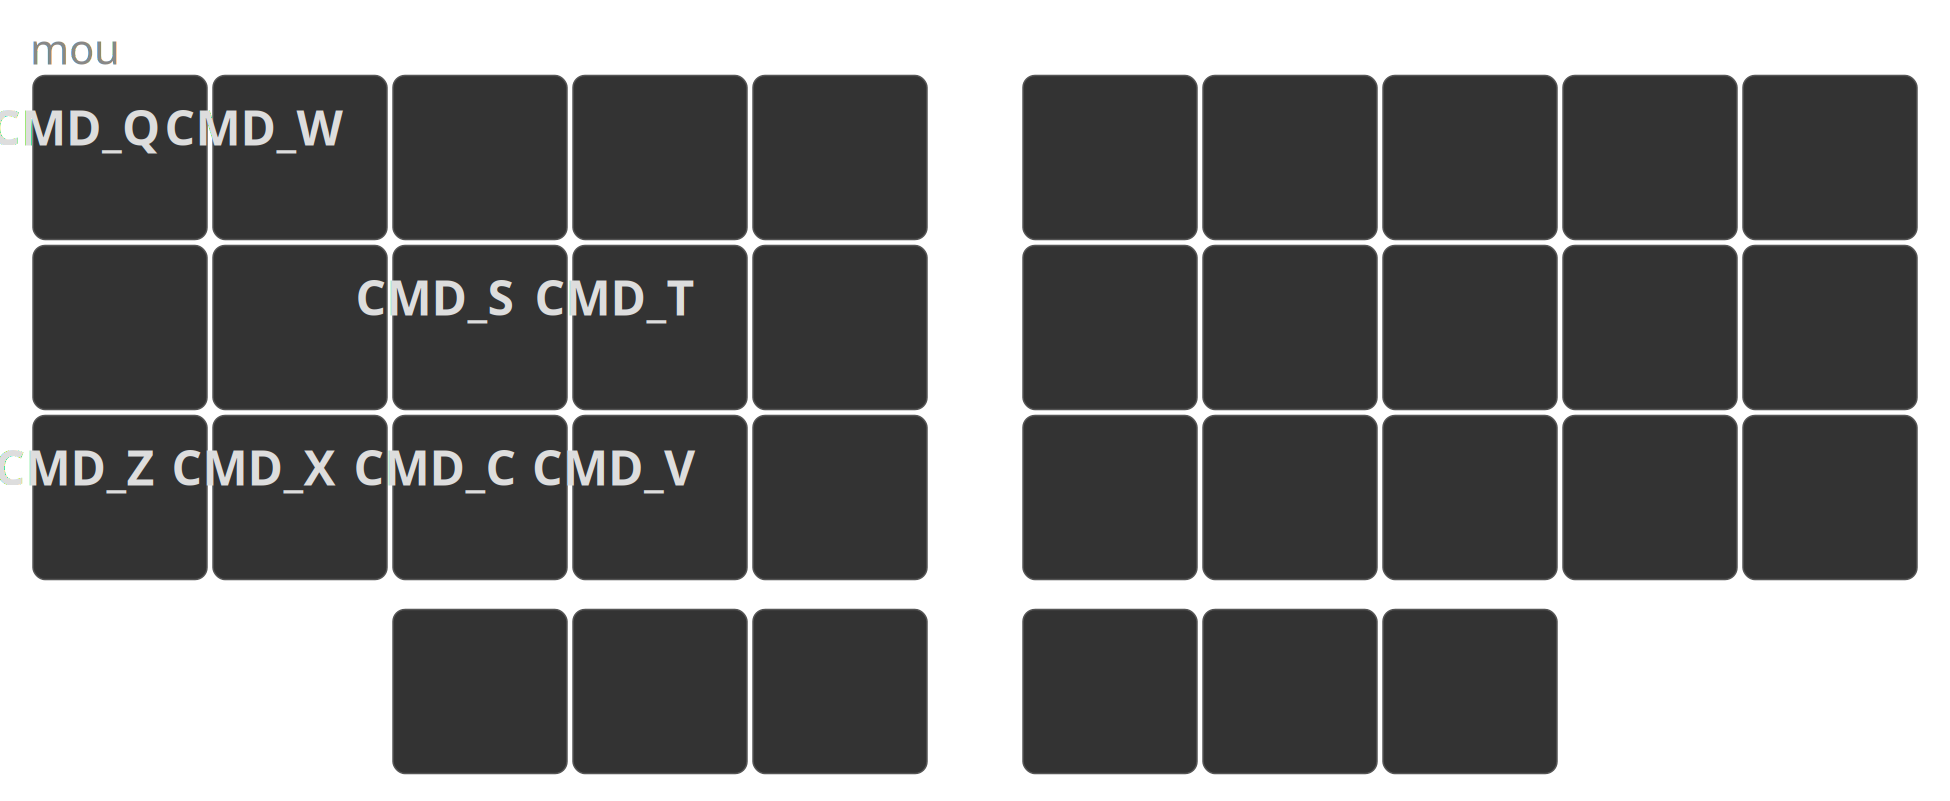
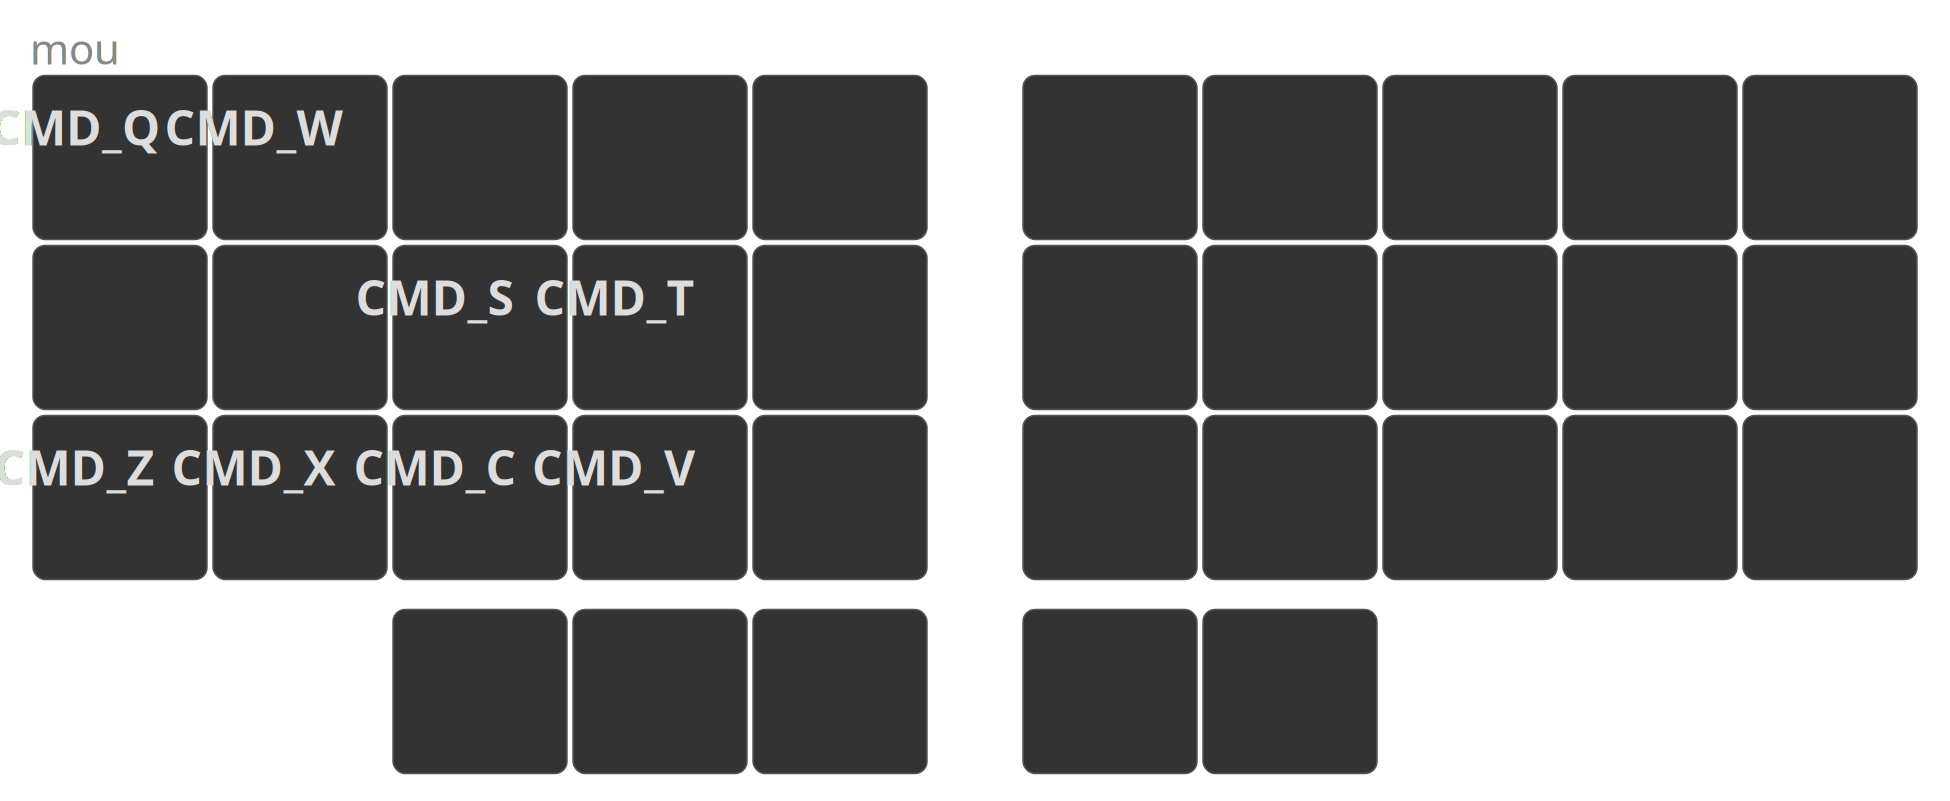
Drop right thumb key; relocate backspace to RET/BKSP hold
Reduce the thumb row to five keys (3 left + 2 right). Move backspace to
RET/BKSP:hp on the inner right thumb, shift ALT_BKSP to the same key on
the symbol layer, and rely on home-row hyp holds for the hyper layer. Pad
the unused Corne matrix slot with &none in generated ZMK output.

Changed region(s): [[0.7077, 0.7491, 0.8, 0.9675]]

diff --git a/keymap_generator/tests/test_parser.py b/keymap_generator/tests/test_parser.py
@@ -30,7 +30,7 @@ def blank_layer(name: str, overlays: str = "") -> str:
           _ _ _ _ _   _ _ _ _ _
           _ _ _ _ _   _ _ _ _ _
           _ _ _ _ _   _ _ _ _ _
-              _ _ _   _ _ _
+              _ _ _   _ _
         """
     )
 
@@ -70,43 +70,43 @@ class TestParseKeymapHappyPath:
               _ _ _ _ _   _ _ _ _ _
               hyp shft alt cmd ctrl   ctrl cmd alt shft hyp
               _ _ _ _ _   _ _ _ _ _
-                  _ _ _   _ _ _
+                  _ _ _   _ _
 
             layer default: homerow
               Q W F P G   J L U Y *
               A R S T D   H N E I O
               Z/adj X C V B   K M , . '/adj
-                  ESC/mou:hp _/shft TAB/lwr:hp   RET SPC/rse:hp BKSP/hyp:hp
+                  ESC/mou:hp _/shft TAB/lwr:hp   RET/BKSP:hp SPC/rse:hp
 
             layer rse: homerow
               _ _ _ _ _   _ _ _ _ _
               _ _ _ _ _   _ _ _ _ _
               _ _ _ _ _   _ _ _ _ _
-                  _ _ _   _ _ _
+                  _ _ _   _ _
 
             layer lwr: homerow
               _ _ _ _ _   _ _ _ _ _
               _ _ _ _ _   _ _ _ _ _
               _ _ _ _ _   _ _ _ _ _
-                  _ _ _   _ _ _
+                  _ _ _   _ _
 
             layer hyp
               _ _ _ _ _   _ _ _ _ _
               _ _ _ _ _   _ _ _ _ _
               _ _ _ _ _   _ _ _ _ _
-                  _ _ _   _ _ _
+                  _ _ _   _ _
 
             layer adj
               _ _ _ _ _   _ _ _ _ _
               _ _ _ _ _   _ _ _ _ _
               _ _ _ _ _   _ _ _ _ _
-                  _ _ _   _ _ _
+                  _ _ _   _ _
 
             layer mou
               _ _ _ _ _   _ _ _ _ _
               _ _ _ _ _   _ _ _ _ _
               _ _ _ _ _   _ _ _ _ _
-                  _ _ _   _ _ _
+                  _ _ _   _ _
 
             combos
               Q W -> ESC
@@ -140,7 +140,7 @@ class TestParseKeymapHappyPath:
               Q W F P G   J L U Y *
               A R S T D   H N E I O
               Z X C V B   K M , . '
-                  ESC shft/shft TAB   RET SPC BKSP
+                  ESC shft/shft TAB   RET/BKSP SPC
 
             """
         ) + "".join(blank_layer(name) for name in LAYER_NAMES[1:])
@@ -156,7 +156,7 @@ class TestParseKeymapHappyPath:
               ~ ^ @ $ %   & \\/ \\\\ PIPE `
               UML < [ ( {   - \\_ \\: ; #
               _ > ] ) }   + = ? ! "
-                  _ _ _   _ _ _
+                  _ _ _   _ _
 
             """
         ) + "".join(blank_layer(name) for name in LAYER_NAMES[1:])
@@ -203,7 +203,7 @@ class TestParseErrors:
               _ _ _ _ _   _ _ _ _
               _ _ _ _ _   _ _ _ _ _
               _ _ _ _ _   _ _ _ _ _
-                  _ _ _   _ _ _
+                  _ _ _   _ _
             """
         ) + "".join(blank_layer(name) for name in LAYER_NAMES[1:])
         with pytest.raises(ParseError, match="has 9 keys"):
@@ -216,7 +216,7 @@ class TestParseErrors:
               Q W F P G   J L U Y *
               A R S T D   H N E I O
               Z X C V B   K M , . '
-                  ESC/mou:xx _ _   _ _ _
+                  ESC/mou:xx _ _   _ _
 
             """
         ) + "".join(blank_layer(name) for name in LAYER_NAMES[1:])
@@ -230,7 +230,7 @@ class TestParseErrors:
               Q W F P G   J L U Y *
               A R S T D   H N E I O
               Z X C V B   K M , . '
-                  ESC shft/shft:hp _   _ _ _
+                  ESC shft/shft:hp _   _ _
 
             """
         ) + "".join(blank_layer(name) for name in LAYER_NAMES[1:])

diff --git a/keymap_generator/src/keymap_generator/render.py b/keymap_generator/src/keymap_generator/render.py
@@ -155,8 +155,12 @@ def hold_flavor(key: Key) -> str | None:
     return "tap-preferred"
 
 
+LEFT_THUMBS = 3
+RIGHT_THUMBS = 2
+
+
 def flatten_layer(layer: Layer) -> list[Key]:
-    """Flatten a layer's rows into the 36-key ortho index order."""
+    """Flatten a layer's rows into ortho index order."""
     return [key for row in layer.rows for key in row]
 
 
@@ -164,8 +168,12 @@ def layers_by_name(layers: list[Layer]) -> dict[str, Layer]:
     return {layer.name: layer for layer in layers}
 
 
-def ortho_positions(columns: int = 5, thumbs: int = 3) -> list[tuple[float, float]]:
-    """Return (x, y) for each of the 36 key indices (left then right per row)."""
+def ortho_positions(
+    columns: int = 5,
+    left_thumbs: int = LEFT_THUMBS,
+    right_thumbs: int = RIGHT_THUMBS,
+) -> list[tuple[float, float]]:
+    """Return (x, y) for each key index (left then right per row)."""
     positions: list[tuple[float, float]] = []
     for row in range(3):
         y = row * KH
@@ -174,14 +182,20 @@ def ortho_positions(columns: int = 5, thumbs: int = 3) -> list[tuple[float, floa
         for col in range(columns):
             positions.append((columns * KW + SPLIT_GAP + col * KW, y))
     thumb_y = 3 * KH + 8
-    left_thumb_xs = [(columns - thumbs + i) * KW for i in range(thumbs)]
-    right_thumb_xs = [columns * KW + SPLIT_GAP + i * KW for i in range(thumbs)]
+    left_thumb_xs = [(columns - left_thumbs + i) * KW for i in range(left_thumbs)]
+    right_thumb_xs = [
+        columns * KW + SPLIT_GAP + i * KW for i in range(right_thumbs)
+    ]
     for x in left_thumb_xs + right_thumb_xs:
         positions.append((x, thumb_y))
     return positions
 
 
-def board_size(columns: int = 5, thumbs: int = 3) -> tuple[float, float]:
+def board_size(
+    columns: int = 5,
+    left_thumbs: int = LEFT_THUMBS,
+    right_thumbs: int = RIGHT_THUMBS,
+) -> tuple[float, float]:
     width = columns * 2 * KW + SPLIT_GAP + 20
     height = 3 * KH + KH + 40
     return width, height
@@ -376,12 +390,16 @@ def draw_key(x: float, y: float, spec: dict) -> str:
 
 
 def render_board(
-    specs: list[dict], title: str, columns: int = 5, thumbs: int = 3
+    specs: list[dict],
+    title: str,
+    columns: int = 5,
+    left_thumbs: int = LEFT_THUMBS,
+    right_thumbs: int = RIGHT_THUMBS,
 ) -> str:
-    positions = ortho_positions(columns, thumbs)
+    positions = ortho_positions(columns, left_thumbs, right_thumbs)
     if len(specs) != len(positions):
         raise ValueError(f"Expected {len(positions)} keys, got {len(specs)}")
-    width, height = board_size(columns, thumbs)
+    width, height = board_size(columns, left_thumbs, right_thumbs)
     body = [
         f'<svg xmlns="http://www.w3.org/2000/svg" class="keymap" '
         f'width="{width:.0f}" height="{height:.0f}" '

diff --git a/dubu36-ergo/qmk/dubu36ergo/keymaps/default/keymap.c b/dubu36-ergo/qmk/dubu36ergo/keymaps/default/keymap.c
@@ -6,19 +6,19 @@ const uint16_t PROGMEM keymaps[][MATRIX_ROWS][MATRIX_COLS] = {
 KC_Q, KC_W, KC_F, KC_P, KC_G, KC_J, KC_L, KC_U, KC_Y, KC_ASTERISK,
 LT(3,KC_A), MT(MOD_LSFT,KC_R), MT(MOD_LALT,KC_S), MT(MOD_LGUI,KC_T), MT(MOD_LCTL,KC_D), MT(MOD_LCTL,KC_H), MT(MOD_LGUI,KC_N), MT(MOD_LALT,KC_E), MT(MOD_LSFT,KC_I), LT(3,KC_O),
 LT(4,KC_Z), KC_X, KC_C, KC_V, KC_B, KC_K, KC_M, KC_COMMA, KC_DOT, LT(4,KC_QUOTE),
-LT(5,KC_ESC), KC_LSFT, LT(2,KC_TAB), KC_ENT, LT(1,KC_SPC), LT(3,KC_BSPC)
+LT(5,KC_ESC), KC_LSFT, LT(2,KC_TAB), MT(MOD_BSPC,KC_ENT), LT(1,KC_SPC)
 	),
 	[1] = LAYOUT(
 KC_NO, KC_7, KC_8, KC_9, KC_NO, KC_HOME, A(KC_LEFT), KC_UP, A(KC_RIGHT), KC_END,
 MO(3), MT(MOD_LSFT,KC_4), MT(MOD_LALT,KC_5), MT(MOD_LGUI,KC_6), KC_LCTL, MT(MOD_LCTL,G(KC_LBRC)), MT(MOD_LGUI,KC_LEFT), MT(MOD_LALT,KC_DOWN), MT(MOD_LSFT,KC_RIGHT), LT(3,G(KC_RBRC)),
 KC_0, KC_1, KC_2, KC_3, KC_NO, G(S(KC_LBRC)), G(S(A(C(KC_LBRC)))), G(S(A(C(KC_BSLASH)))), G(S(A(C(KC_RBRC)))), G(S(KC_RBRC)),
-KC_NO, KC_NO, KC_NO, KC_NO, KC_NO, KC_NO
+KC_NO, KC_NO, KC_NO, KC_NO, KC_NO
 	),
 	[2] = LAYOUT(
 KC_TILDE, KC_CIRCUMFLEX, KC_AT, KC_DOLLAR, KC_PERCENT, KC_AMPERSAND, KC_SLASH, KC_BSLASH, KC_PIPE, KC_GRAVE,
 LT(3,A(KC_U)), MT(MOD_LSFT,KC_LEFT_ANGLE_BRACKET), MT(MOD_LALT,KC_LBRC), MT(MOD_LGUI,KC_LEFT_PAREN), MT(MOD_LCTL,KC_LCBR), MT(MOD_LCTL,KC_MINUS), MT(MOD_LGUI,KC_UNDERSCORE), MT(MOD_LALT,KC_COLON), MT(MOD_LSFT,KC_SCOLON), LT(3,KC_HASH),
 KC_NO, KC_RIGHT_ANGLE_BRACKET, KC_RBRC, KC_RIGHT_PAREN, KC_RCBR, KC_PLUS, KC_EQUAL, KC_QUESTION, KC_EXCLAIM, KC_DOUBLE_QUOTE,
-KC_NO, KC_NO, KC_NO, KC_NO, KC_NO, A(KC_BSPC)
+KC_NO, KC_NO, KC_NO, A(KC_BSPC), KC_NO
 	)
 };
 

diff --git a/keymap_generator/tests/test_render.py b/keymap_generator/tests/test_render.py
@@ -55,7 +55,7 @@ class TestSpecsFromKeymap:
     def test_stacked_specs_cover_all_keys(self) -> None:
         layers, _ = parse_keymap(KEYMAP)
         specs = build_stacked_specs(layers)
-        assert len(specs) == 36
+        assert len(specs) == 35
 
     def test_layer_change_holds_use_layer_accent(self) -> None:
         layers, _ = parse_keymap(KEYMAP)
@@ -79,9 +79,10 @@ class TestSpecsFromKeymap:
     def test_symbol_overlay_includes_delete_word_glyph(self) -> None:
         layers, _ = parse_keymap(KEYMAP)
         specs = build_stacked_specs(layers)
-        # Rightmost thumb: BKSP with ALT_BKSP on lwr.
-        assert specs[35]["base_glyph"] == "backspace"
-        assert specs[35]["sym_glyph"] == "delete-word"
+        # Return thumb: RET/BKSP with ALT_BKSP on lwr.
+        assert specs[33]["base_glyph"] == "return"
+        assert specs[33]["hold"] == "BKSP"
+        assert specs[33]["sym_glyph"] == "delete-word"
 
     def test_raise_layer_uses_distinct_nav_glyphs(self) -> None:
         layers, _ = parse_keymap(KEYMAP)
@@ -107,7 +108,8 @@ class TestRenderOutput:
                 [Key("Q", "", None)] * 10,
                 [Key("A", "SHFT", "tp")] * 10,
                 [Key("Z", "", None)] * 10,
-                [Key("ESC", "MOU", "hp")] * 6,
+                [Key("ESC", "MOU", "hp"), Key("", "SHFT", None), Key("TAB", "LWR", "hp"),
+                 Key("RET", "BKSP", "hp"), Key("SPC", "RSE", "hp")],
             ],
         )
         svg = render_board(layer_specs(layer), "demo")

diff --git a/keymap_generator/src/keymap_generator/zmk.py b/keymap_generator/src/keymap_generator/zmk.py
@@ -76,5 +76,10 @@ def generate_zmk_layer(layer: Layer) -> str:
         rows.append(
             "&trans " + " ".join(map_key_to_zmk(key) for key in row) + " &trans"
         )
-    rows.append(" ".join(map_key_to_zmk(key) for key in layer.rows[3]))
+    thumb_bindings = [map_key_to_zmk(key) for key in layer.rows[3]]
+    # Corne's combined matrix still has six thumb positions; pad the dropped
+    # outer-right slot with &none when the grid only defines five thumbs.
+    if len(thumb_bindings) == 5:
+        thumb_bindings.append("&none")
+    rows.append(" ".join(thumb_bindings))
     return "\n".join(rows)

diff --git a/keymap_generator/src/keymap_generator/parser.py b/keymap_generator/src/keymap_generator/parser.py
@@ -8,8 +8,9 @@ from typing import NamedTuple
 
 from keymap_generator.codes import FLAVORS, LAYER_LABELS
 
-# Number of keys in each row of the grid: three rows of ten, then the thumbs.
-ROW_SIZES: tuple[int, ...] = (10, 10, 10, 6)
+# Number of keys in each row of the grid: three rows of ten, then the thumbs
+# (three on the left, two on the right).
+ROW_SIZES: tuple[int, ...] = (10, 10, 10, 5)
 
 # Cell that holds no key, and no hold when used on the hold side of a cell.
 BLANK = "_"
